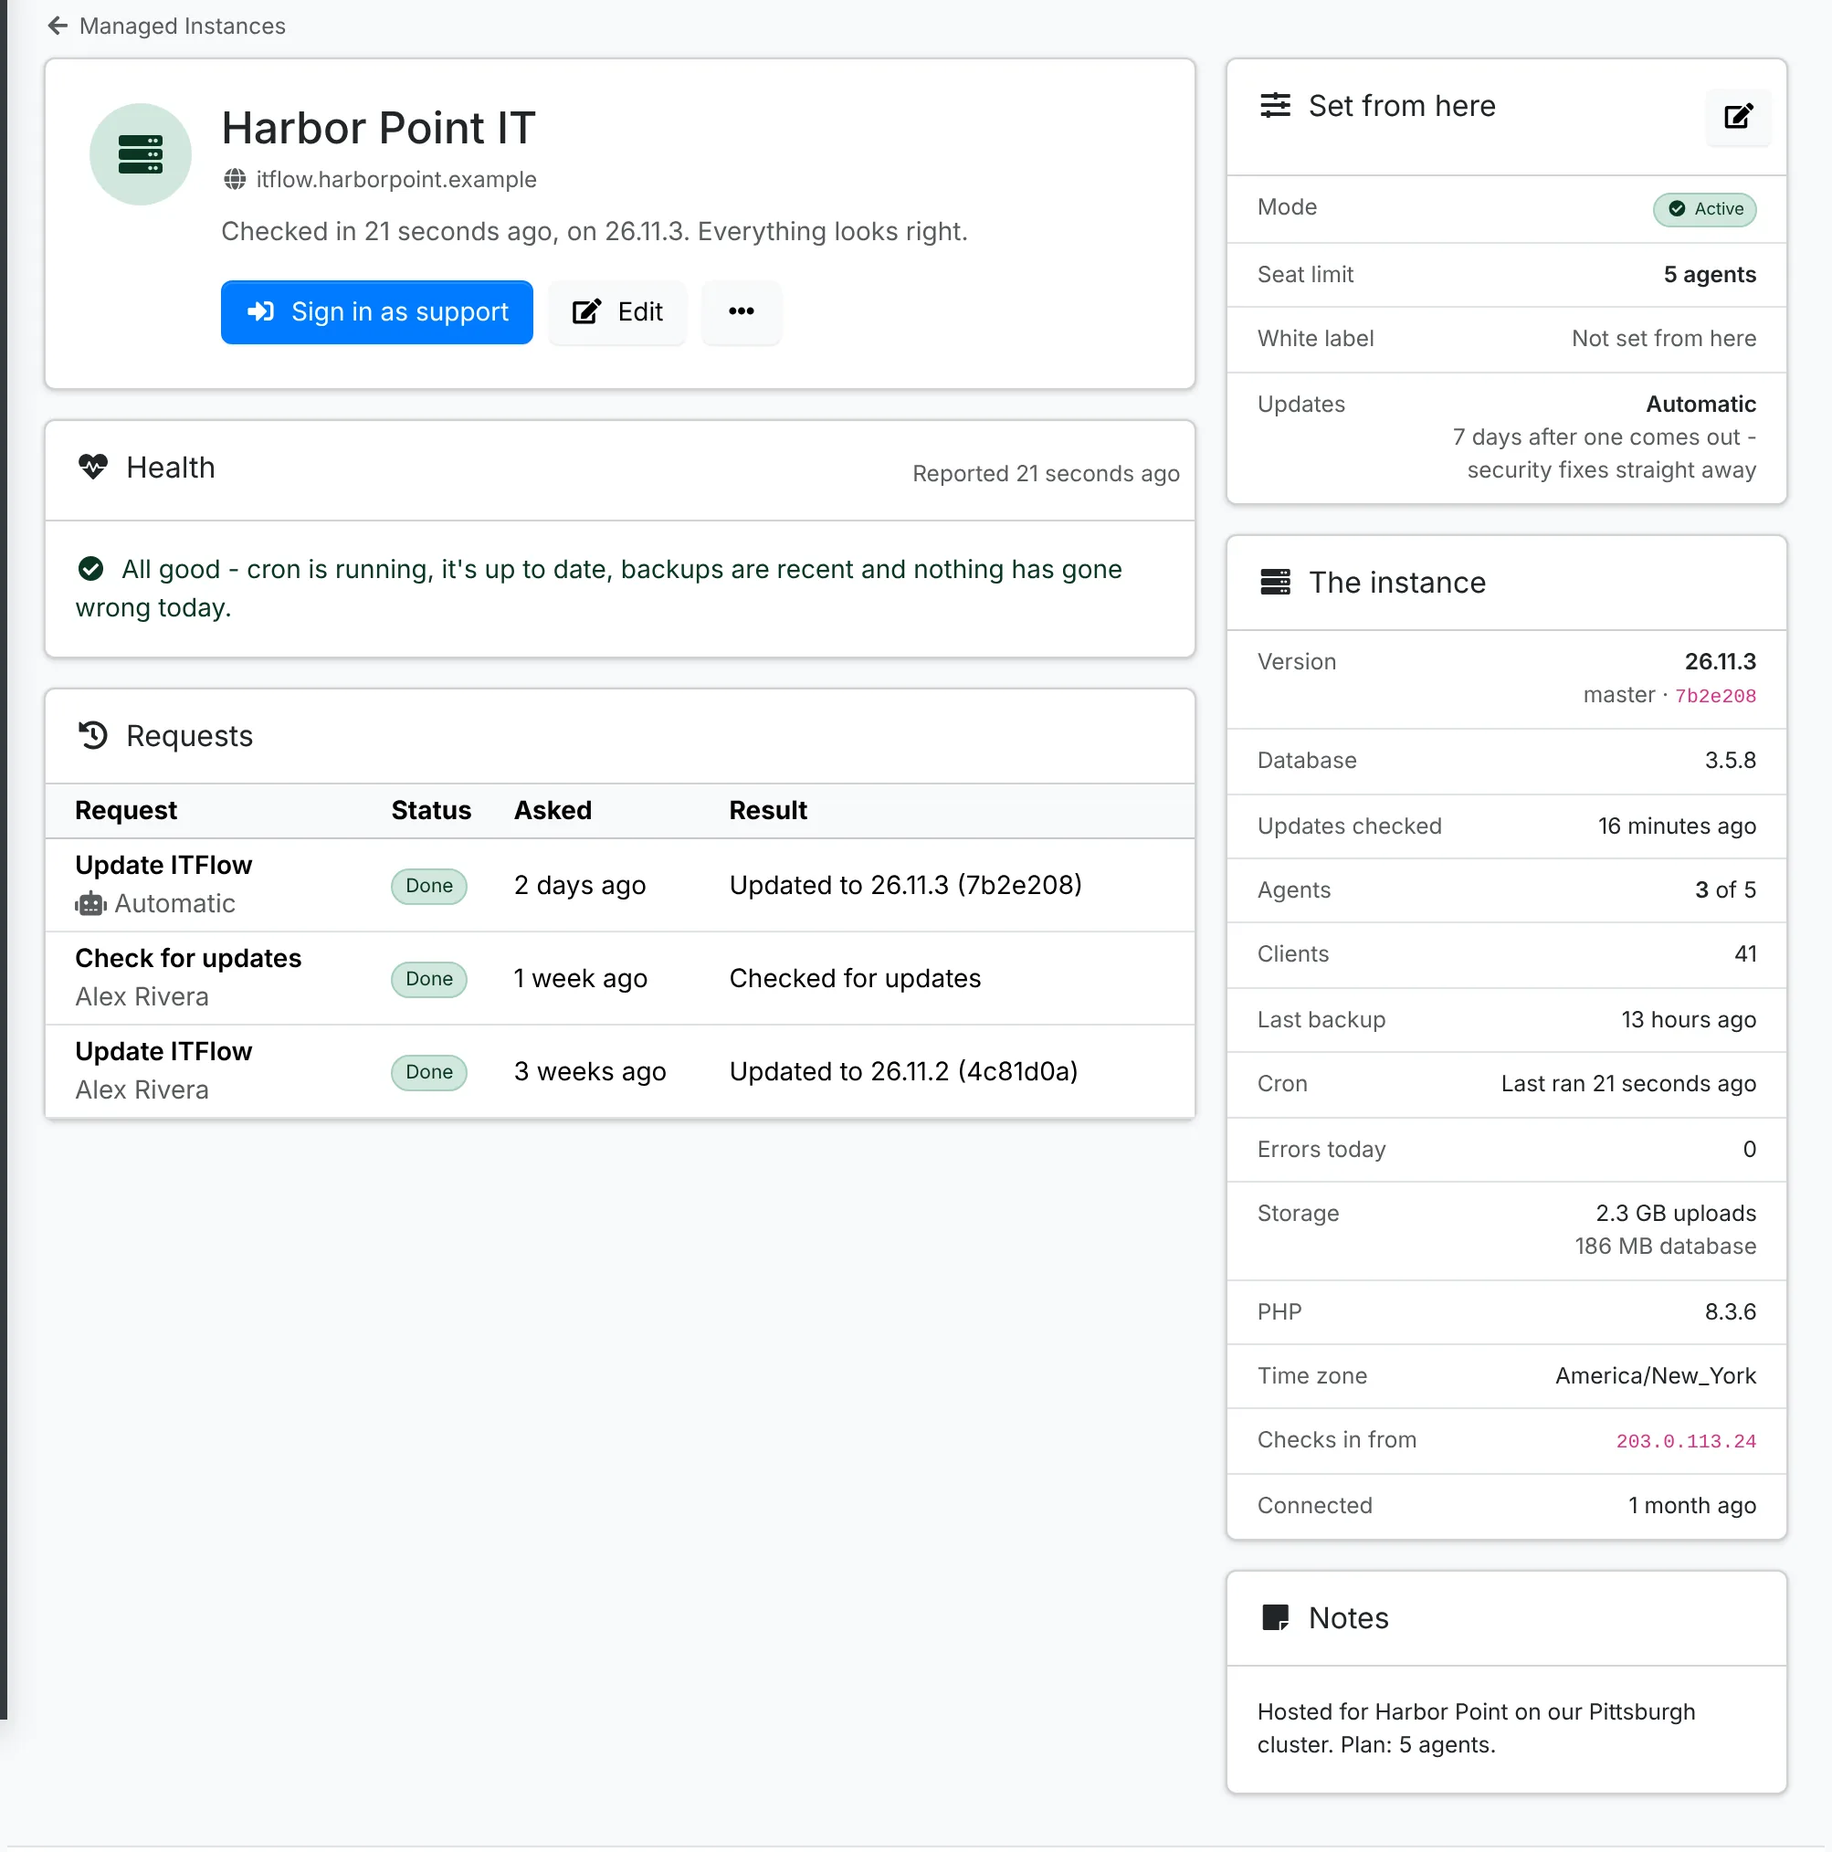
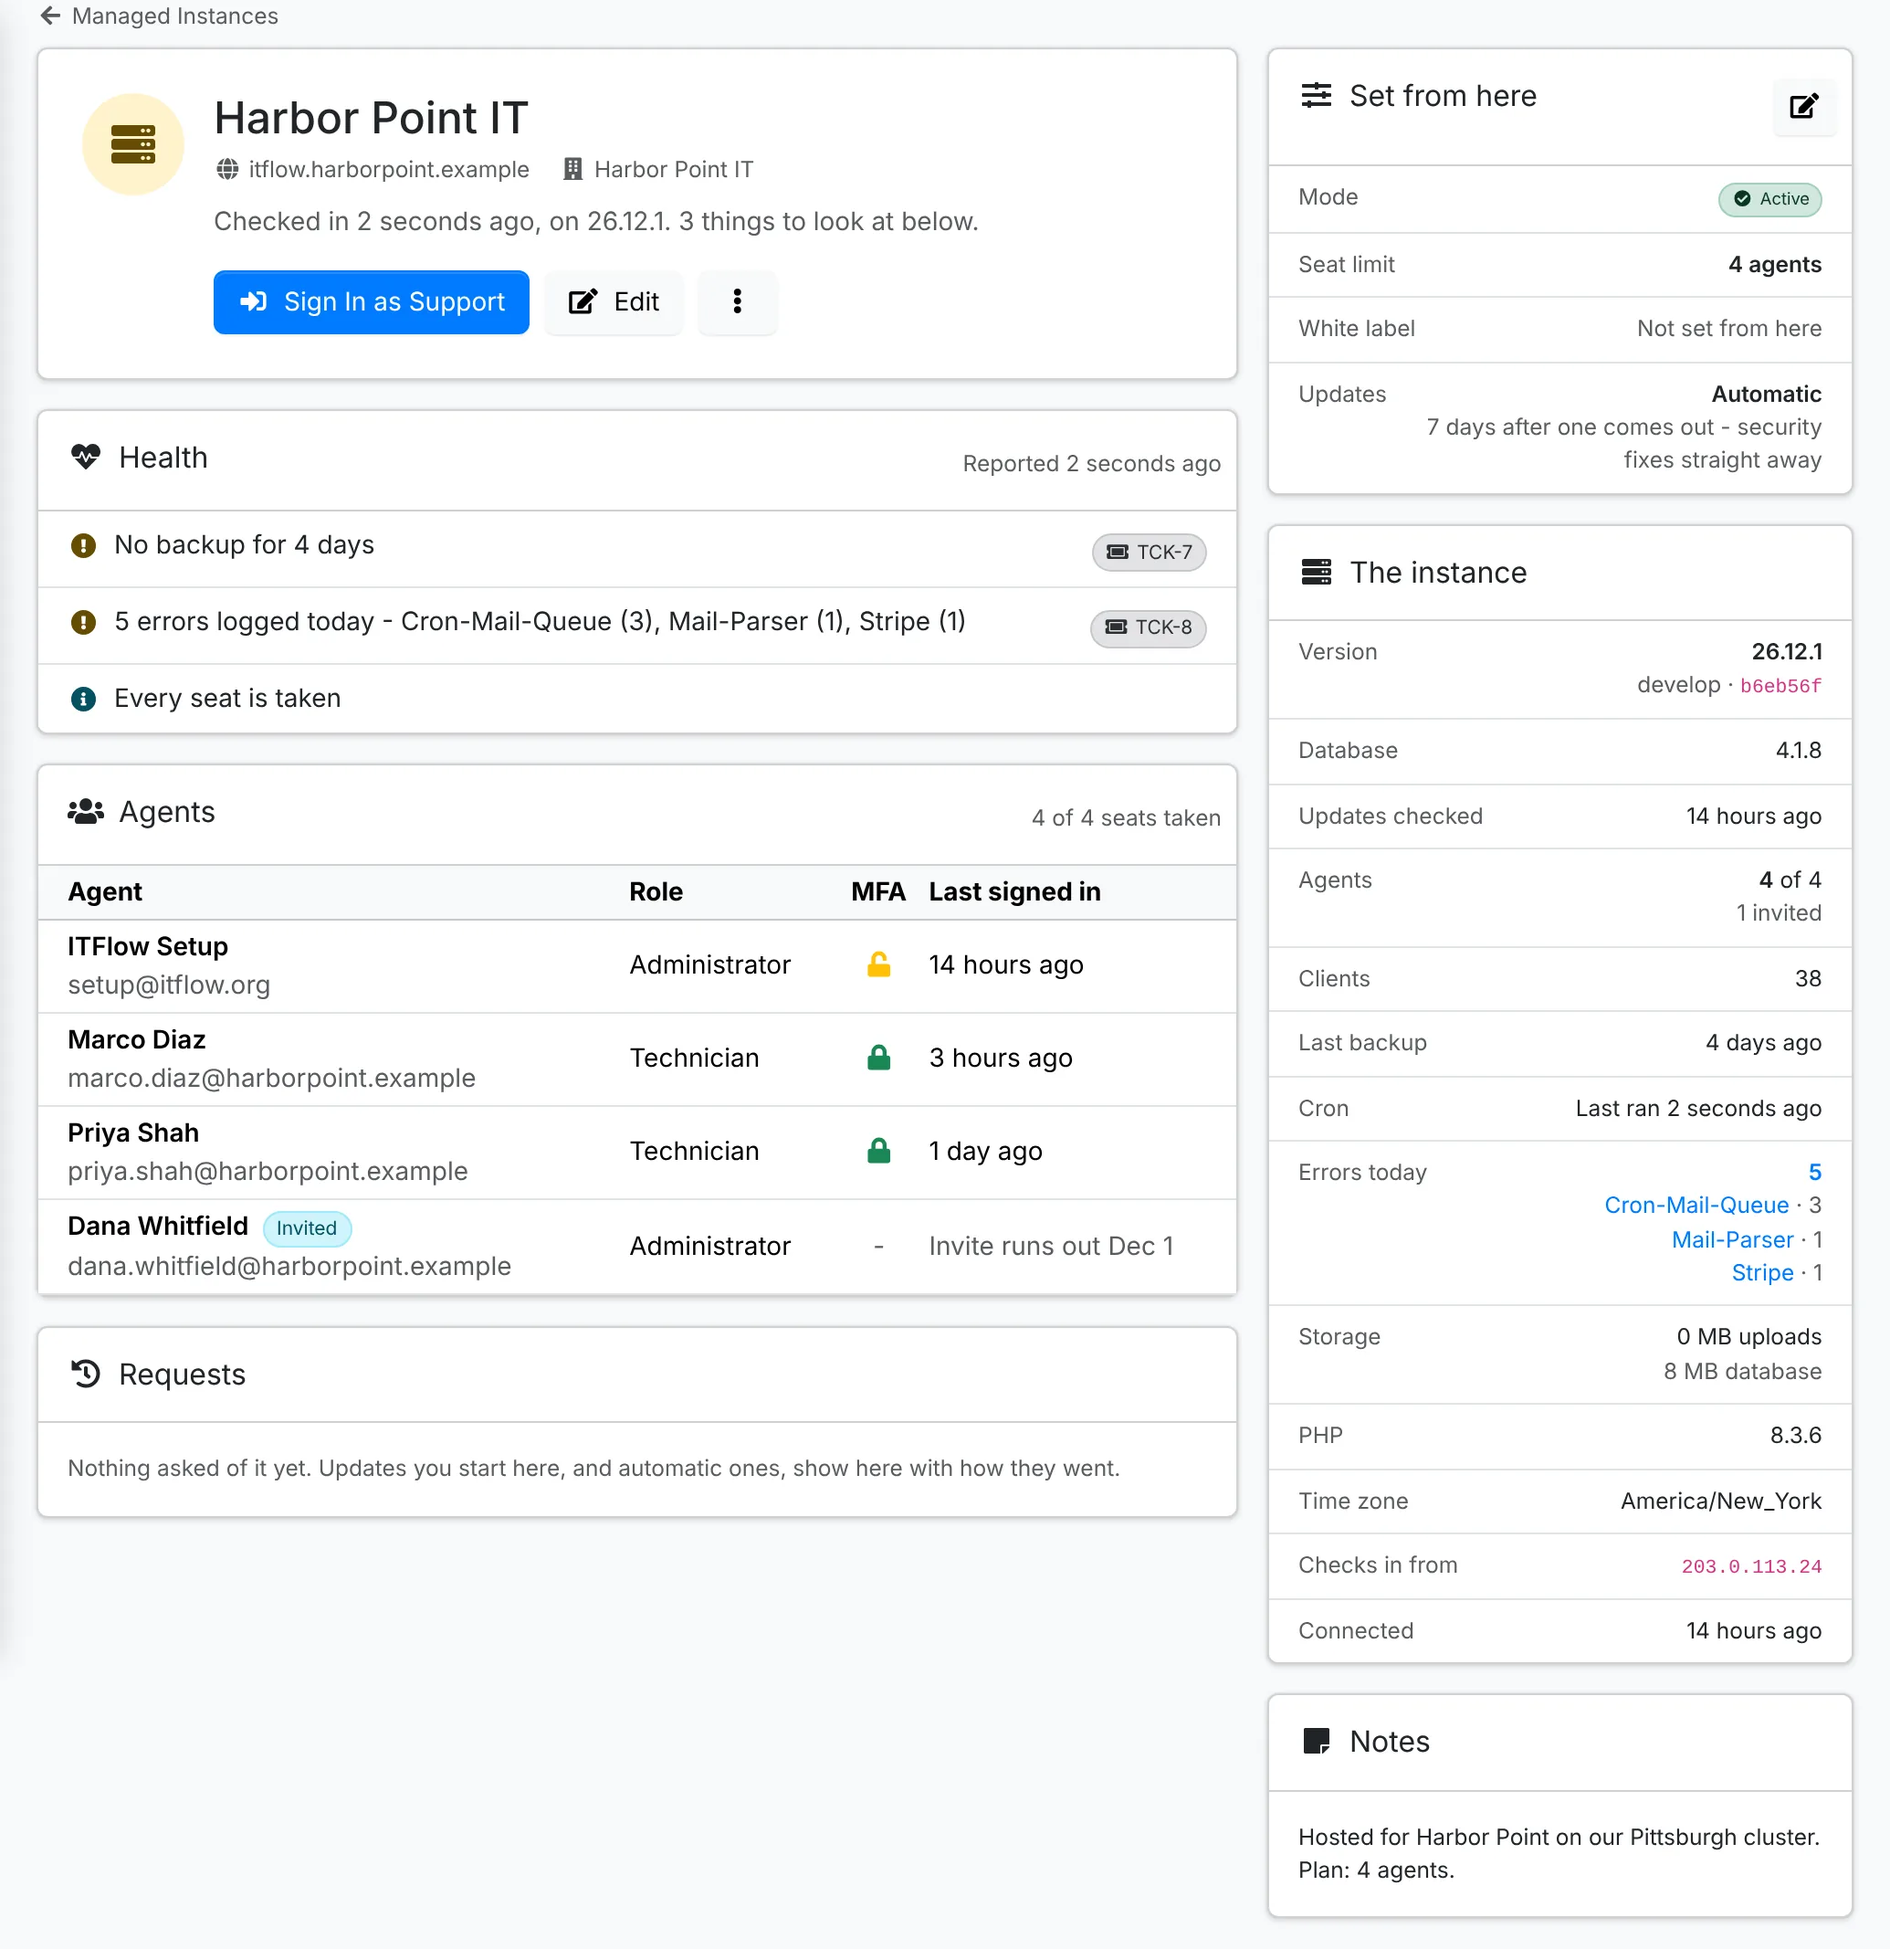
Docs: Problem tickets section on managed instances, with the Agents card, error categories, the firewall note and what instances send, the Managed Instances job on maintenance, and new screenshots of the instance page, Managed By and the Problem Tickets window

diff --git a/content/admin/managed-instances.md b/content/admin/managed-instances.md
@@ -1,11 +1,11 @@
 ---
 title: Managing other ITFlow installs
-description: Run other ITFlow installs from your own - see how each is doing, update them, set their seat limit and white label, sign in as support, and make one read-only or suspend it.
+description: Run other ITFlow installs from your own - see how each is doing and who its agents are, have their problems open tickets, update them, set their seat limit and white label, sign in as support, and make one read-only or suspend it.
 where: Admin > Managed Instances
 access: Admins
 ---
 
-One ITFlow can manage others: your clients' own ITFlows, a reseller's, or the ones you host. Each one checks in with yours every minute, so you see how they're all doing in one list, and from there you can update them, set how many agents they can have and their white-label key, sign in to one as support, and make one read-only or suspend it.
+One ITFlow can manage others: your clients' own ITFlows, a reseller's, or the ones you host. Each one checks in with yours every minute, so you see how they're all doing in one list - and their problems can open tickets - and from there you can update them, set how many agents they can have and their white-label key, sign in to one as support, and make one read-only or suspend it.
 
 The ITFlow that manages is the **manager**; the ones it manages are **instances**. Any ITFlow can be either, or both - a reseller's ITFlow can be managed by its provider and manage its own clients'.
 
@@ -35,6 +35,8 @@ Taking a line out again keeps what's there. An instance stays connected but stop
 
 The instance needs to be on the same version of ITFlow or newer, with cron running - it checks in from cron. It calls your ITFlow at its address, so that has to be reachable from where the instance is; nothing ever connects to the instance, so it can sit behind a firewall.
 
+Your ITFlow can sit behind a web application firewall - ModSecurity with the OWASP Core Rule Set, say - with nothing to exclude for check-ins: an instance sends its report encoded, so the cron command and error text in it don't look like an attack. An instance on an older version sends it as plain text until it's updated, and a firewall may turn that away - its **Managed By** page says "The manager answered 403". Update it, or exclude the rule the firewall names for `/api/managed/checkin.php` until you do.
+
 Lost the code, or moving the instance to a new server? **New Connection Code** in its menu makes another; the old one stops working, and whatever connects with the new one takes the place of what was connected.
 
 ### Set up a new install and connect it in one go {#set-up-new}
@@ -60,14 +62,33 @@ Click an instance for everything it reported:
 
 ![An instance](adm-managed-instance.webp "An instance: what needs a look, what it's been asked, what you set and what it reported")
 
-- **Health** lists what needs a look: cron switched off or not running, a database update not applied, the last update failed, an update or security update waiting, the last backup failed or none for three days, errors logged today, every seat taken - or **All good**.
+- **Health** lists what needs a look: cron switched off or not running, a database update not applied, the last update failed, an update or security update waiting, the last backup failed or none for three days, errors logged today and the categories they were logged under, every seat taken - or **All good**. A problem that has opened a [ticket](#problem-tickets) links to it.
+- **Agents** lists who holds its seats: each active agent's name and email, their role, whether they sign in with MFA, and when they last signed in - then the invites waiting, with the day each runs out. API accounts are marked. Its support user isn't there, as it takes no seat. An instance on an older version shows only how many, until it's updated.
 - **Requests** is what you've asked it to do - updates and checks for updates, yours and automatic ones - and how they went.
-- **The instance** has its version, branch and database, when it last checked for updates, its agents and clients, last backup, cron, errors today, storage, PHP, time zone and where it checks in from.
+- **The instance** has its version, branch and database, when it last checked for updates, its agents and clients, last backup, cron, errors today, storage, PHP, time zone and where it checks in from. Under **Errors today**, the count and each category [sign you in to it as support](#sign-in-as-support) on its **App Logs**, showing just those errors.
 
-You're notified when an instance stops checking in for ten minutes - or, for a new one, that it's still waiting for its cron job - and again when it's back, and when an update on one fails.
+You're notified when an instance stops checking in for ten minutes - or, for a new one, that it's still waiting for its cron job - and again when it's back, and when an update on one fails. Turn on [problem tickets](#problem-tickets) to have its problems open tickets as well.
 
 > [!NOTE]
-> Instances send how they're doing - never tickets, documents, credentials, invoices or contacts. Their admins can see exactly what's sent on **Admin > Managed By**.
+> Instances send how they're doing and who their agents are - never tickets, documents, credentials, invoices or contacts. Of their errors they send only how many and the categories they were logged under, never what they say, as an error can hold a client's email address or a ticket's subject. Their admins can see exactly what's sent on **Admin > Managed By**.
+
+## Problem tickets {#problem-tickets}
+
+An instance's problems can open tickets, so they land in your queue with the rest of your work. It's off to start with.
+
+1. On **Admin > Managed Instances**, click **Problem Tickets**.
+2. Pick which **Problems open tickets**:
+   - **Problems** - it has stopped checking in, cron isn't running, an update failed, its database update isn't applied, or a security update is waiting on one that doesn't update itself. These open at High priority.
+   - **Problems and warnings** - those, and its backups failing or none for three days, and errors being logged. Warnings open at Medium.
+3. Pick a **Ticket category** for them, if you like, and click **Save**.
+
+![Problem Tickets](adm-managed-problem-tickets.webp "Problem Tickets: which problems open tickets, and their category")
+
+- A problem opens a ticket once it has lasted ten minutes, so a blip doesn't. The ticket is on the instance's client - or, when it has none, on your own client record, set in [Company details](/admin/settings#company-details); with neither, it waits until one is set. It says what's wrong, with the instance's address, version and last check-in, what to look at, and a link to its page here.
+- The same problem coming back goes on its ticket as a note while that isn't closed, and reopens it if it was resolved.
+- When the problem clears, the ticket gets a note and is resolved - unless someone has written on it, and then it stays as it is for you to close.
+- A new instance waiting for its cron job opens none, and neither does a suspended one. A problem already there when you turn this on opens a ticket too, once it has lasted ten minutes.
+- On an instance's page, each problem under **Health** links to its ticket.
 
 ## Update instances
 

diff --git a/content/admin/maintenance.md b/content/admin/maintenance.md
@@ -44,7 +44,7 @@ The list starts in the order the day runs - the every-minute jobs, then the nigh
 | RMM Sync | every 15 minutes | Brings in the devices of the clients linked to your [RMM](/admin/rmm) and of the sites linked to your [network platforms](/admin/network-platforms), and keeps their assets up to date. Does nothing until one is set up. |
 | RMM Alerts | every minute | Opens a ticket for each new alert from an RMM whose alerts open tickets, or for a device that goes offline on a [network platform](/admin/network-platforms#offline-alerts), and resolves it when the alert clears. See [RMM providers](/admin/rmm#alerts). |
 | Manager Check-in | every minute | Checks in with the ITFlow that [manages this one](/admin/managed-instances#managed-by). Only there when managed mode is [turned on](/admin/managed-instances#turn-on). |
-| Managed Instances | every 5 minutes | Notices [instances you manage](/admin/managed-instances) that have stopped checking in. Only there when managed mode is [turned on](/admin/managed-instances#turn-on). |
+| Managed Instances | every 5 minutes | Notices [instances you manage](/admin/managed-instances) that have stopped checking in, and opens and resolves tickets for their problems when [problem tickets](/admin/managed-instances#problem-tickets) are on. Only there when managed mode is [turned on](/admin/managed-instances#turn-on). |
 | Backup | daily | Makes the scheduled backup, and any started from [Backup](#backup). Off until the schedule is turned on. |
 | Update Check | daily | Checks for a new version |
 | Application Update | when asked | Runs an update started from [Update](#update). Off, as there's nothing for it to do until then. |

diff --git a/content/index.md b/content/index.md
@@ -24,6 +24,6 @@ Installing ITFlow on a server of your own? Start with [Before you install](/inst
 
 ## About these docs
 
-These pages describe ITFlow 26.12. The screenshots come from a demo company, Summit IT Partners, and its made-up clients. Your ITFlow shows your own clients, and only the parts your role lets you open, so a menu item or button in a screenshot may not be there for you. If something is missing, ask whoever runs ITFlow at your company.
+These pages describe ITFlow 26.12.1. The screenshots come from a demo company, Summit IT Partners, and its made-up clients. Your ITFlow shows your own clients, and only the parts your role lets you open, so a menu item or button in a screenshot may not be there for you. If something is missing, ask whoever runs ITFlow at your company.
 
 Click any screenshot to see it full size. Press <kbd>Ctrl</kbd> <kbd>K</kbd> (or <kbd>⌘</kbd> <kbd>K</kbd> on a Mac) on any page to search the docs.
